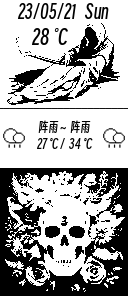
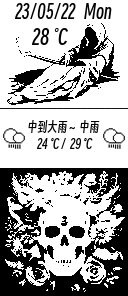
:sparkles: 添加桌面程序打包功能

diff --git a/utils/utils.py b/utils/utils.py
@@ -10,6 +10,7 @@
 # 2023/5/20 21:21   leemysw      1.0.0         Create
 
 # =====================================================
+import sys
 import os
 import time
 import json
@@ -28,6 +29,11 @@ from contextlib import contextmanager
 
 
 ROOT_PATH = os.path.abspath(os.path.dirname(__file__)) + '/../'
+
+
+def resource_path(relative_path):
+    base_path = getattr(sys, '_MEIPASS', os.path.dirname(os.path.abspath(__file__)))
+    return os.path.join(base_path, relative_path)
 
 
 def abspath(r_path):
@@ -103,6 +109,10 @@ def singleton(cls, *args, **kwargs):
 
     return _singleton
 
+
+def ensure_dir(directory):
+    if not os.path.exists(directory):
+        os.makedirs(directory)
 
 def ensure_dir(directory):
     if not os.path.exists(directory):

diff --git a/utils/logger.py b/utils/logger.py
@@ -13,6 +13,7 @@
 
 import sys
 import time
+import pathlib
 import logging
 from typing import Optional
 from logging import handlers
@@ -76,6 +77,9 @@ def setup_logger(name: str,
     if save_log or filename:
         if filename is None:
             filename = time.strftime("%Y-%m-%d_%H.%M.%S", time.localtime()) + ".log"
+
+        if not pathlib.Path(filename).parent.exists():
+            pathlib.Path(filename).parent.mkdir()
 
         if rotating_time:
             # 每 1(interval) 天(when) 重写1个文件,保留7(backupCount) 个旧文件；when还可以是Y/m/H/M/S

diff --git a/apps/get_weather.py b/apps/get_weather.py
@@ -53,7 +53,7 @@ class GetWeather(BaseRequest):
     def gat_weather(self):
         try:
             self.data_now = self._get(url=self.url_now, params=self.params).json().get("now", {})
-            self.data_3d = self._get(url=self.url_3d, params=self.params).json().get("daily", [{}])[0]
+            self.data_3d = self._get(url=self.url_3d, params=self.params).json().get("daily", [{}])[1]
             self.save_data()
             self.update_time = datetime.datetime.now()
             self.logger.info("获取天气数据成功")

diff --git a/utils/hid/__init__.py b/utils/hid/__init__.py
@@ -24,6 +24,11 @@ for lib in library_paths:
         hidapi = ctypes.cdll.LoadLibrary(abspath("utils/hid") + "/" + lib)
         break
     except OSError:
+        try:
+            hidapi = ctypes.cdll.LoadLibrary(lib)
+            break
+        except OSError:
+            pass
         pass
 else:
     error = "Unable to load any of the following libraries:{}" \

diff --git a/app.py b/app.py
@@ -103,6 +103,7 @@ class App:
 
     def __call__(self, *args, **kwargs):
         while True:
+            logger.info("runtime-dir: " + os.path.dirname(__file__))
             try:
                 new_image = Image.new("RGB", (128, 296), color=(255, 255, 255))
                 new_image, y = self.draw_header(new_image)

diff --git a/README.md b/README.md
@@ -28,9 +28,21 @@
   python3 app.py
   ```
 
+* 如果需要打包成左面软件 
+
+  ```shell
+  pip install pyinstaller
+  pyinstaller -F -w -i data/icon.ico ---specpath app.spec app.py
+  pyinstaller app.spec
+  ```
   
-
-
+  > 上述代码将在项目地址下的dist文件夹生成app.exe文件，双击即可运行
+  >
+  > 如需取消终端显示，在后台运行，修改`app.spec`文件中`console`，设置为`False`
+  >
+  > ```python
+  > console=False
+  > ```
 
 
 ### PREVIEW
